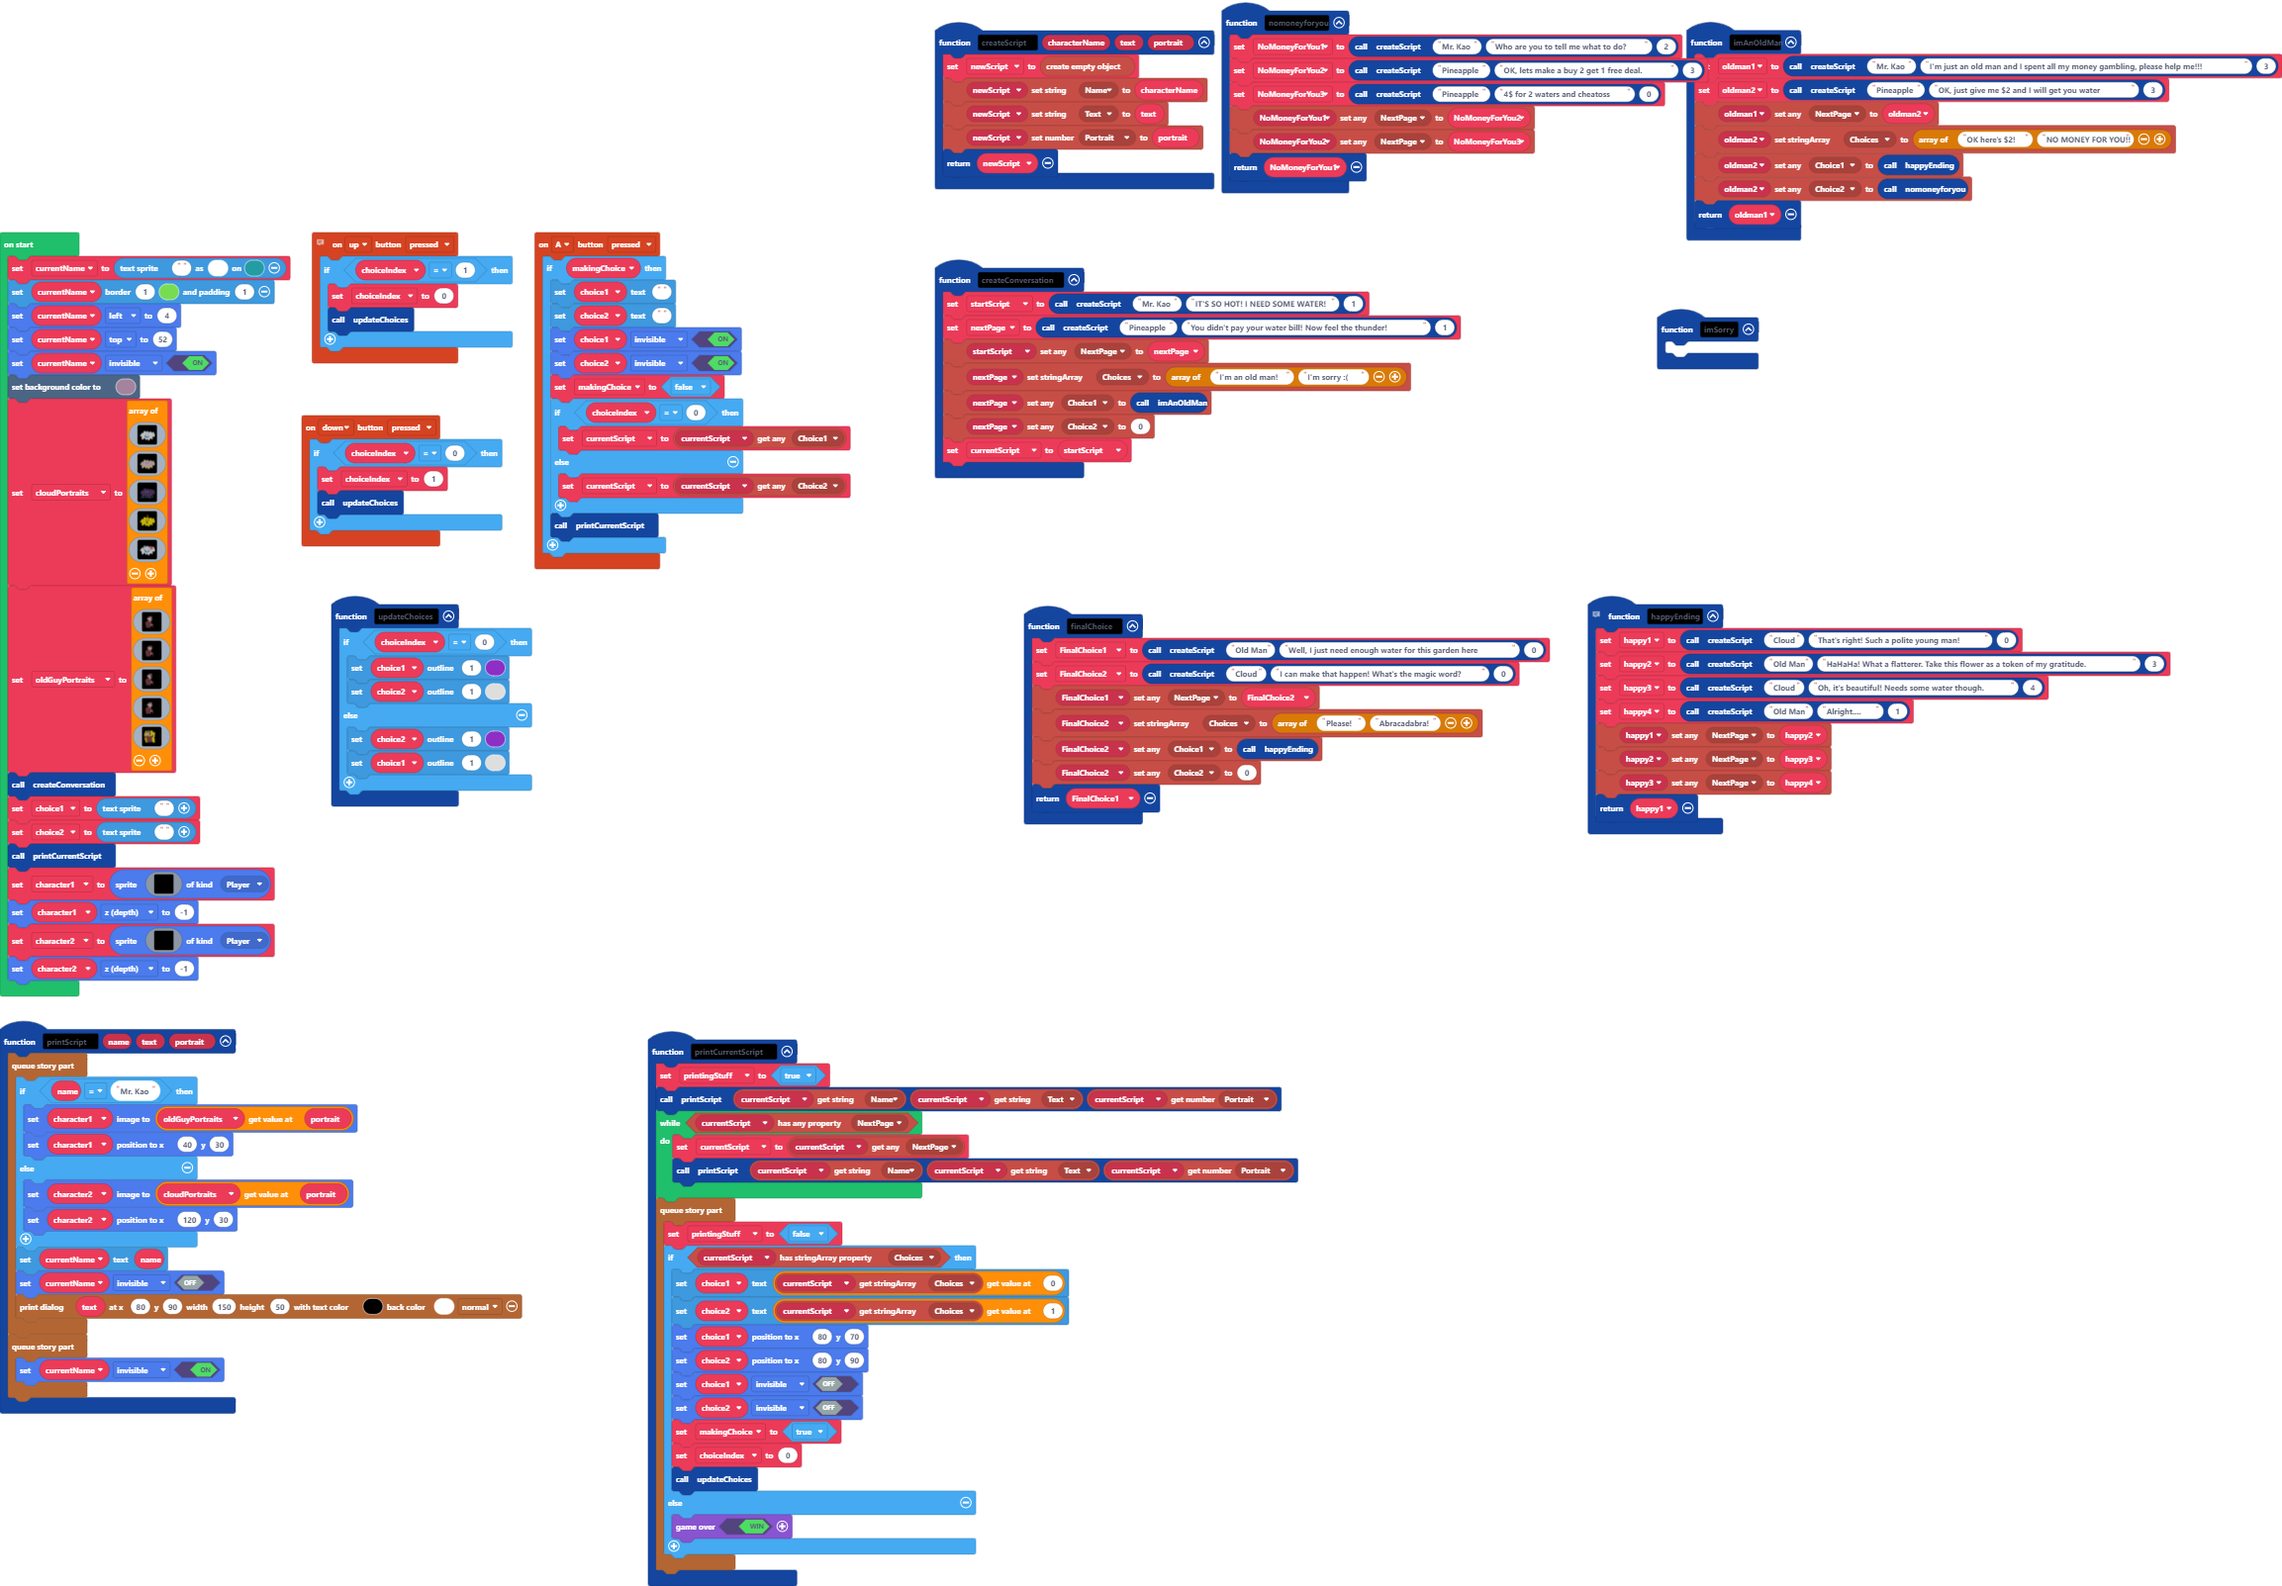
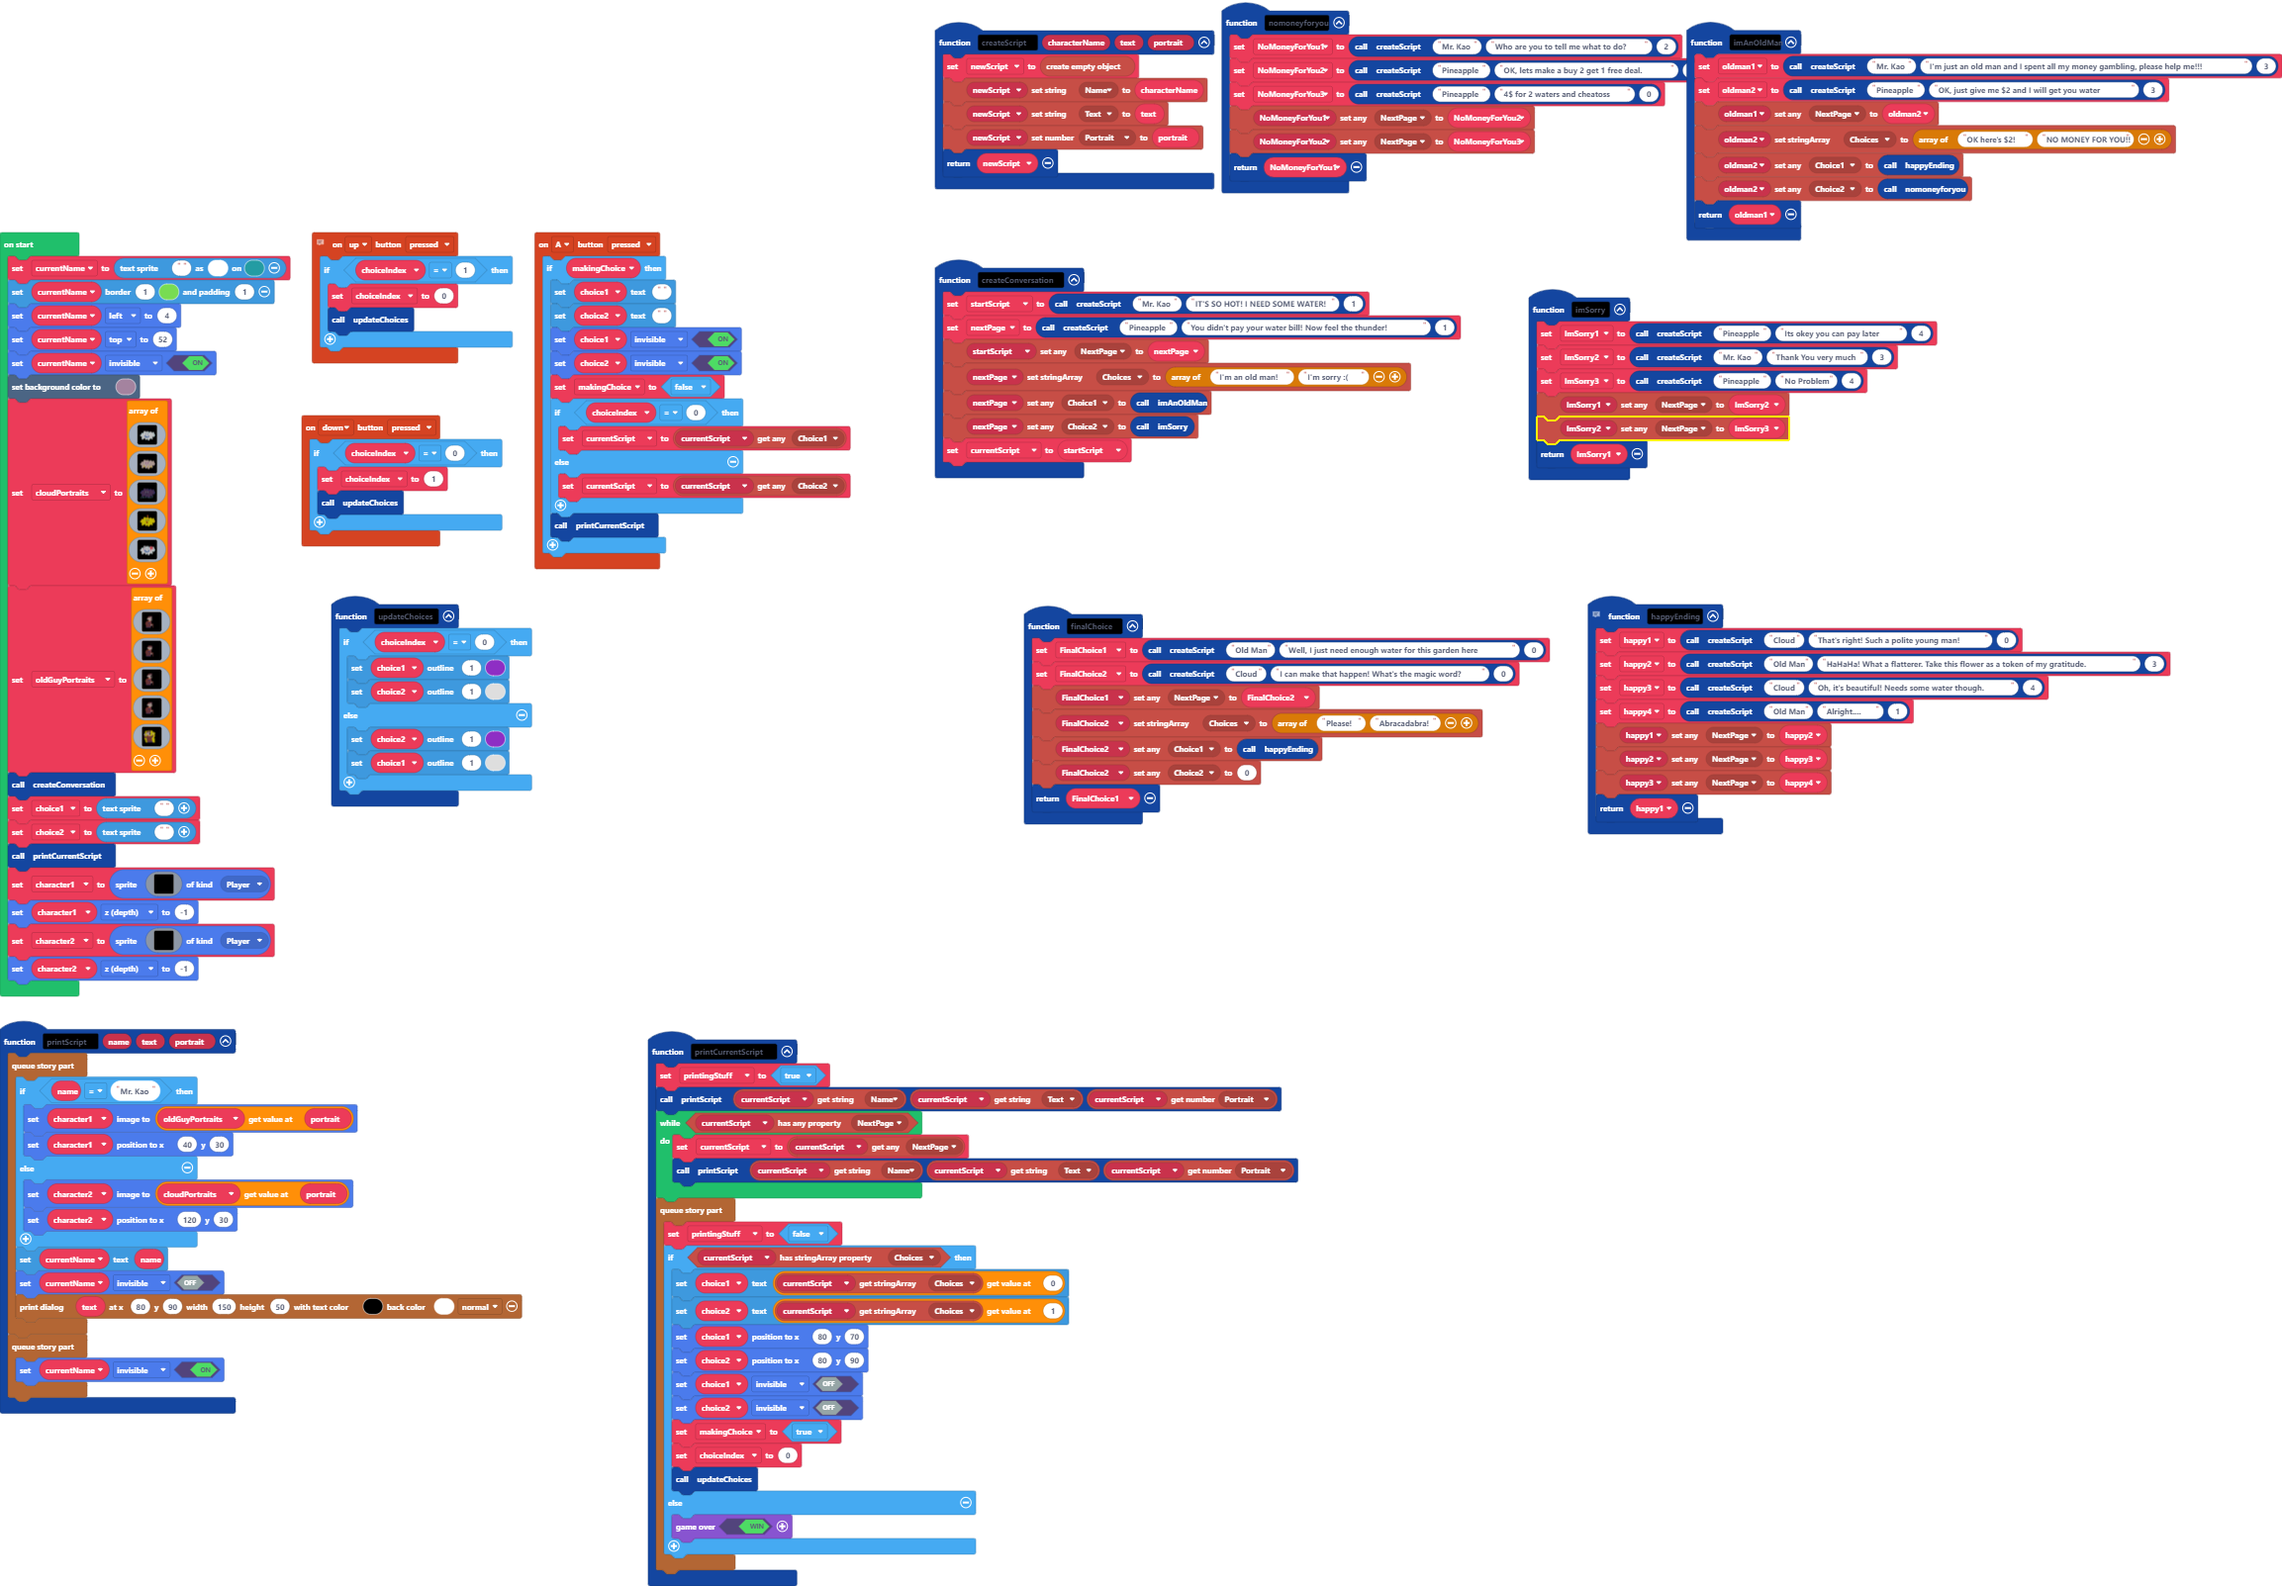
Finished Im sorry

Changed region(s): [[0.6557, 0.1871, 0.843, 0.3119], [0.7181, 0.0312, 0.7493, 0.0624], [0.4996, 0.2495, 0.5308, 0.2807]]

diff --git a/main.ts b/main.ts
@@ -44,7 +44,12 @@ function happyEnding () {
     return happy1
 }
 function imSorry () {
-	
+    ImSorry1 = createScript("Pineapple", "Its okey you can pay later", 4)
+    ImSorry2 = createScript("Mr. Kao", "Thank You very much", 3)
+    ImSorry3 = createScript("Pineapple", "No Problem", 4)
+    blockObject.setAnyProperty(ImSorry1, AnyProp.NextPage, ImSorry2)
+    blockObject.setAnyProperty(ImSorry2, AnyProp.NextPage, ImSorry3)
+    return ImSorry1
 }
 // microsoft/arcade-block-objects
 // 
@@ -61,7 +66,7 @@ function createConversation () {
     blockObject.setAnyProperty(startScript, AnyProp.NextPage, nextPage)
     blockObject.setStringArrayProperty(nextPage, StrArrayProp.Choices, ["I'm an old man!", "I'm sorry :("])
     blockObject.setAnyProperty(nextPage, AnyProp.Choice1, imAnOldMan())
-    blockObject.setAnyProperty(nextPage, AnyProp.Choice2, 0)
+    blockObject.setAnyProperty(nextPage, AnyProp.Choice2, imSorry())
     currentScript = startScript
 }
 function printScript (name: string, text: string, portrait: number) {
@@ -182,6 +187,9 @@ let currentScript: blockObject.BlockObject = null
 let nextPage: blockObject.BlockObject = null
 let startScript: blockObject.BlockObject = null
 let choiceIndex = 0
+let ImSorry3: blockObject.BlockObject = null
+let ImSorry2: blockObject.BlockObject = null
+let ImSorry1: blockObject.BlockObject = null
 let happy4: blockObject.BlockObject = null
 let happy3: blockObject.BlockObject = null
 let happy2: blockObject.BlockObject = null
